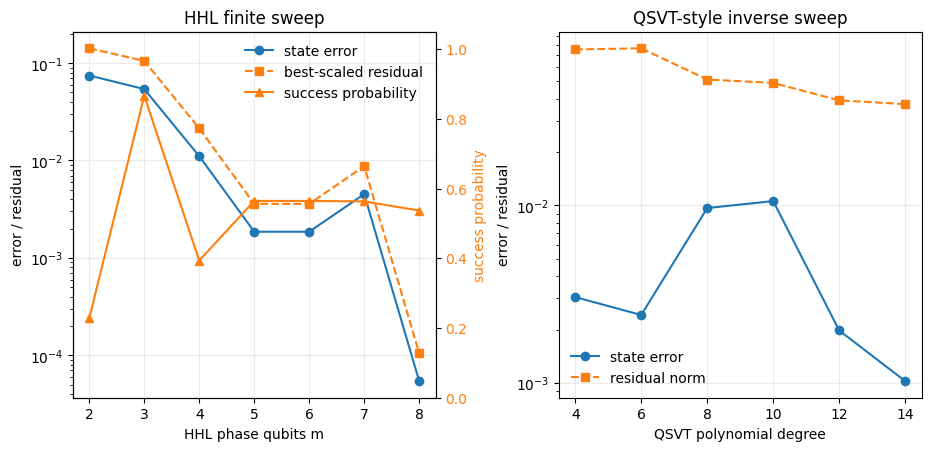
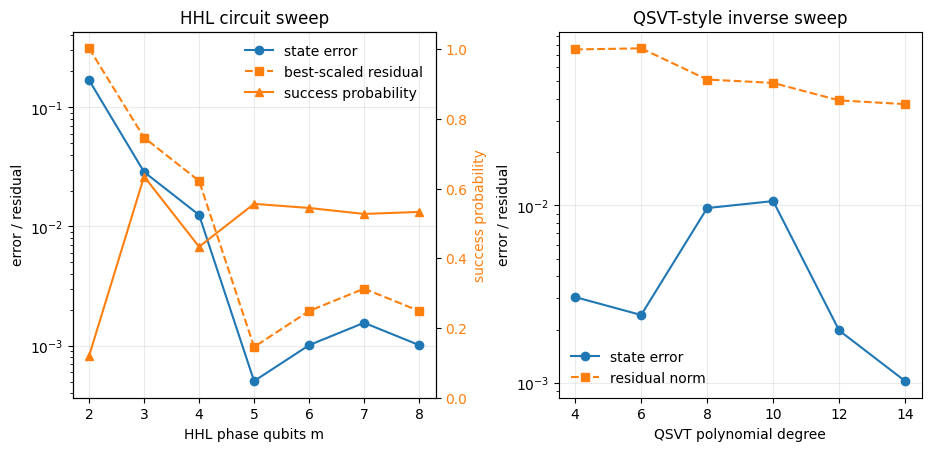
Release v0.2.3

diff --git a/docs/qsvt/tutorial_results.md b/docs/qsvt/tutorial_results.md
@@ -1147,10 +1147,10 @@ eigenvalues = [1. 2.]
 phase indices = [1 2]
 estimated eigenvalues = [1. 2.]
 rotation amplitudes C / lambda = [1.  0.5]
-success probability = 0.9973076211353317
+success probability = 0.9973076211353308
 HHL state = [0.880635 0.473796]
 dense solution state = [0.880635 0.473796]
-state error = 1.5700924586837752e-16
+state error = 2.2893289068207046e-16
 fidelity = 0.9999999999999998
 ```
 
@@ -1159,11 +1159,11 @@ Output 2 (cell 10):
 ```text
 m  grid_size  phase_indices  success_probability  state_error  fidelity
 -  ---------  -------------  -------------------  -----------  --------
-1  2          (1, 1)         0.25                 0.0299475    0.999103
-2  4          (1, 2)         0.997308             1.570e-16    1
-3  8          (2, 4)         0.997308             1.570e-16    1
-4  16         (4, 8)         0.997308             1.570e-16    1
-5  32         (8, 16)        0.997308             1.570e-16    1
+1  2          (1, 1)         0.0631731            0.0894421    0.992016
+2  4          (1, 2)         0.997308             2.289e-16    1
+3  8          (2, 4)         0.997308             1.637e-16    1
+4  16         (4, 8)         0.997308             1.121e-16    1
+5  32         (8, 16)        0.997308             1.118e-16    1
 ```
 
 Output 3 (cell 13):
@@ -1174,22 +1174,22 @@ normalized |b_sweep> = [0.707107+0.j 0.707107+0.j]
 
 m  phase_indices  estimated_eigenvalues  state_error  best_scaled_residual_norm  success_probability
 -  -------------  ---------------------  -----------  -------------------------  -------------------
-2  (1, 1)         (1.570796, 1.570796)   0.074533     0.141775                   0.227973
-3  (1, 2)         (0.785398, 1.570796)   0.054061     0.105332                   0.866077
-4  (3, 4)         (1.178097, 1.570796)   0.0110711    0.0213574                  0.393407
-5  (5, 7)         (0.981748, 1.374447)   0.00185627   0.00358702                 0.564462
-6  (10, 14)       (0.981748, 1.374447)   0.00185627   0.00358702                 0.564462
-7  (20, 29)       (0.981748, 1.423534)   0.00451793   0.00874009                 0.56311
-8  (41, 58)       (1.006291, 1.423534)   5.438e-05    1.051e-04                  0.536872
+2  (1, 1)         (1.570796, 1.570796)   0.168411     0.311589                   0.120052
+3  (1, 2)         (0.785398, 1.570796)   0.0286405    0.0556184                  0.634515
+4  (3, 4)         (1.178097, 1.570796)   0.0124953    0.0240983                  0.433046
+5  (5, 7)         (0.981748, 1.374447)   5.060e-04    9.780e-04                  0.556117
+6  (10, 14)       (0.981748, 1.374447)   0.00101221   0.00195697                 0.544308
+7  (20, 29)       (0.981748, 1.423534)   0.00155934   0.00301338                 0.527153
+8  (41, 58)       (1.006291, 1.423534)   0.00101394   0.0019596                  0.532957
 ```
 
 Output 4 (cell 15):
 
 ```text
-method              implementation_kind                 state_error  success_probability  residual_norm  relative_vector_error  phase_qubits  degree  gamma
-------------------  ----------------------------------  -----------  -------------------  -------------  ---------------------  ------------  ------  --------
-HHL finite          finite-spectral-hhl-simulation      5.438e-05    0.536872             1.051e-04      -                      8             -       -
-QSVT-style inverse  dense-spectral-polynomial-workflow  0.00966862   -                    0.0512108      0.0367455              -             8       0.707107
+method              implementation_kind                        state_error  success_probability  residual_norm  relative_vector_error  phase_qubits  degree  gamma
+------------------  -----------------------------------------  -----------  -------------------  -------------  ---------------------  ------------  ------  --------
+HHL circuit         pennylane-qnode-statevector-hhl-execution  0.00101394   0.532957             0.0019596      -                      8             -       -
+QSVT-style inverse  dense-spectral-polynomial-workflow         0.00966862   -                    0.0512108      0.0367455              -             8       0.707107
 
 QSVT-style solver rows:
 solver                         implementation_kind                 degree  residual_norm  relative_solution_error
@@ -1204,13 +1204,13 @@ Output 5 (cell 17):
 HHL non-exact phase-estimation sweep:
 m  state_error  best_scaled_residual_norm  success_probability
 -  -----------  -------------------------  -------------------
-2  0.074533     0.141775                   0.227973
-3  0.054061     0.105332                   0.866077
-4  0.0110711    0.0213574                  0.393407
-5  0.00185627   0.00358702                 0.564462
-6  0.00185627   0.00358702                 0.564462
-7  0.00451793   0.00874009                 0.56311
-8  5.438e-05    1.051e-04                  0.536872
+2  0.168411     0.311589                   0.120052
+3  0.0286405    0.0556184                  0.634515
+4  0.0124953    0.0240983                  0.433046
+5  5.060e-04    9.780e-04                  0.556117
+6  0.00101221   0.00195697                 0.544308
+7  0.00155934   0.00301338                 0.527153
+8  0.00101394   0.0019596                  0.532957
 
 QSVT-style degree sweep:
 degree  state_error  residual_norm  relative_vector_error